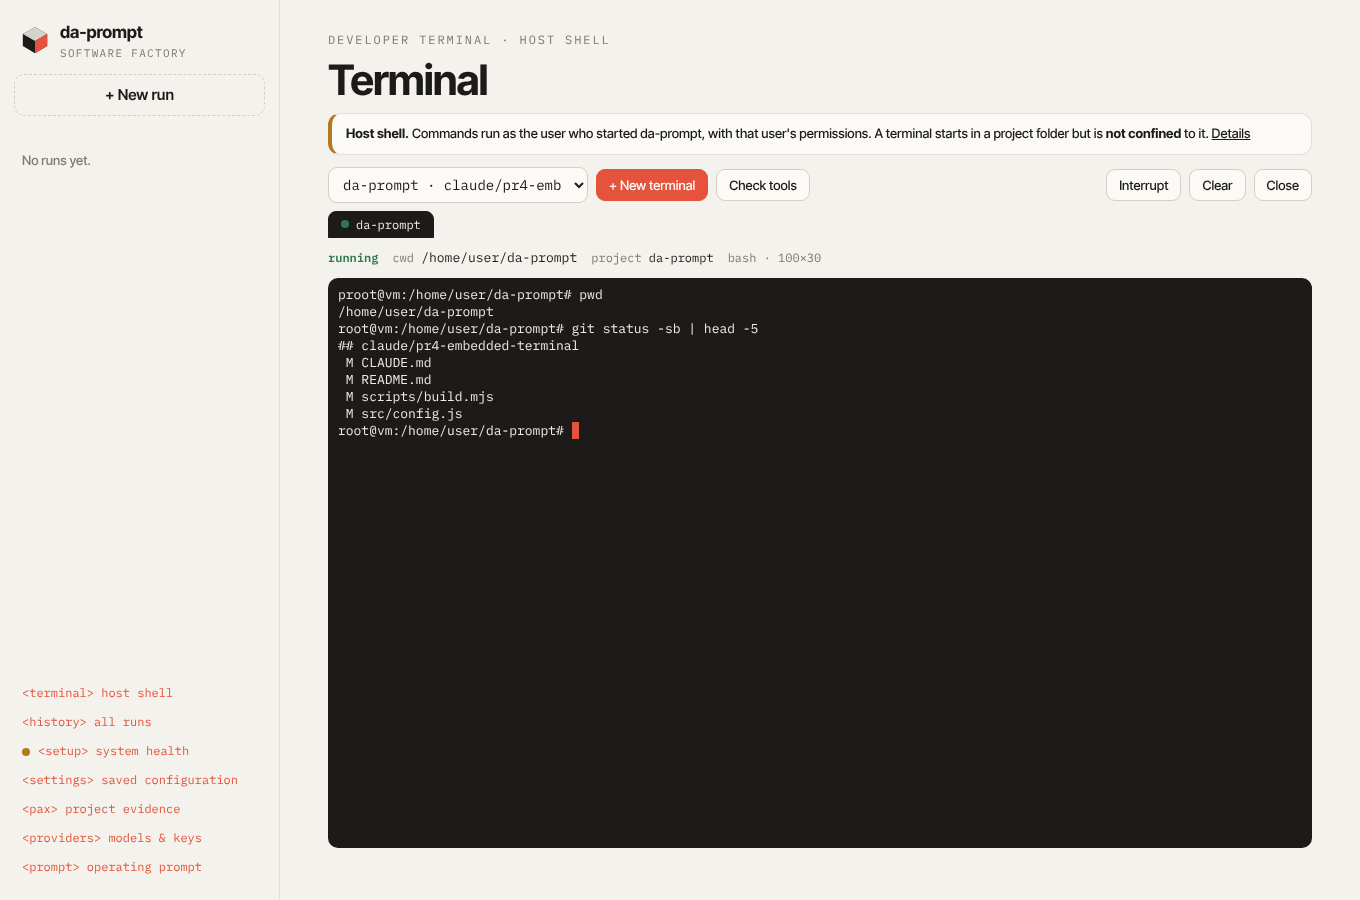
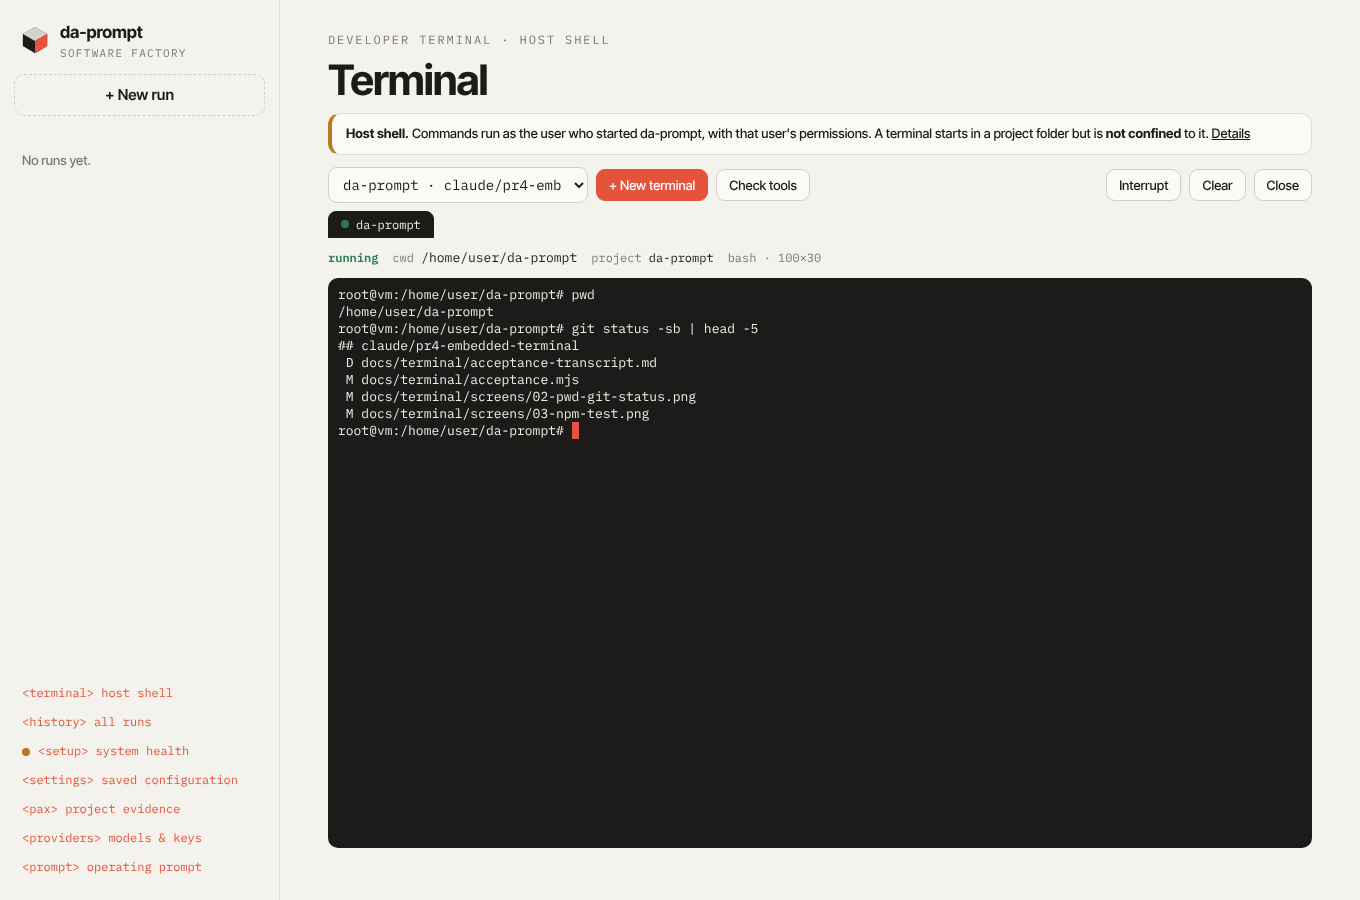
Terminal acceptance record (11/11 steps), earlier attempts and screenshots

Changed region(s): [[0.2471, 0.3733, 0.4941, 0.4667], [0.2471, 0.3111, 0.4324, 0.3422]]

diff --git a/docs/terminal/acceptance-transcript-attempt-2.md b/docs/terminal/acceptance-transcript-attempt-2.md
@@ -1,0 +1,40 @@
+# Terminal acceptance run
+
+- date: 2026-10-13T06:00:02.552Z
+- host: linux/x64, node v22.22.0, shell `/bin/bash`
+- repository under test: `/home/user/da-prompt` (project root authorized: `/home/user`)
+
+### 1. Open the Terminal panel
+**PASS** — sidebar link → #/terminal; the host-shell warning and project picker are shown
+
+### 2. Select the da-prompt repository and open a terminal in it
+**PASS** — header shows project "da-prompt" and cwd /home/user/da-prompt
+
+### 3. Run `pwd` and `git status`
+**PASS** — pwd printed the repository path; git status -sb printed the branch line
+
+### 4. Run the repository's actual test command (`npm test`, the full suite)
+**FAIL** — npm test exited 1: tests 219, pass 218, fail 1, cancelled 0, skipped 0
+
+### 5. Inspect a Git diff
+**PASS** — diff --stat and a file diff were rendered in the terminal
+
+### 6. Run a real development command with an installed local tool (cargo, node, pax)
+**PASS** — cargo, node and `node scripts/build.mjs` ran from the login shell; the real `pax` binary is on the terminal's PATH and answered --version
+
+### 7. Interrupt a running process (Ctrl-C from the keyboard, then the Interrupt button)
+**PASS** — `sleep 300` stopped by Ctrl-C (exit 130); `yes` stopped by the Interrupt button (exit 130)
+
+### 8. Refresh the browser and reconnect to a running session
+**PASS** — same session id, same shell pid 25361; the loop kept counting while the page was gone and continued after reattach
+
+### 9. Close the session and verify its processes are cleaned up
+**PASS** — pids 10050, 10053, 25361 were running before Close and are gone after; `ps` shows no `sleep 901/902`; the session list is empty
+
+### 10. Stop the AI provider; the terminal still works
+**PASS** — provider status went ready → unreachable; a new terminal opened and ran git/ls normally
+
+### 11. Check tools (login-shell PATH diagnostics)
+**PASS** — table rendered (2 tool rows)
+
+**10/11 steps passed**

diff --git a/docs/terminal/acceptance-transcript-attempt-3.md b/docs/terminal/acceptance-transcript-attempt-3.md
@@ -1,0 +1,40 @@
+# Terminal acceptance run
+
+- date: 2026-10-13T06:22:00.804Z
+- host: linux/x64, node v22.22.0, shell `/bin/bash`
+- repository under test: `/home/user/da-prompt` (project root authorized: `/home/user`)
+
+### 1. Open the Terminal panel
+**PASS** — sidebar link → #/terminal; the host-shell warning and project picker are shown
+
+### 2. Select the da-prompt repository and open a terminal in it
+**PASS** — header shows project "da-prompt" and cwd /home/user/da-prompt
+
+### 3. Run `pwd` and `git status`
+**PASS** — pwd printed the repository path; git status -sb printed the branch line
+
+### 4. Run the repository's actual test command (`npm test`, the full suite)
+**PASS** — exit 0 after 437s (tests 219, pass 219, fail 0, cancelled 0, skipped 0)
+
+### 5. Inspect a Git diff
+**PASS** — diff --stat and a file diff were rendered in the terminal
+
+### 6. Run a real development command with an installed local tool (cargo, node, pax)
+**PASS** — cargo, node and `node scripts/build.mjs` ran from the login shell; the real `pax` binary is on the terminal's PATH and answered --version
+
+### 7. Interrupt a running process (Ctrl-C from the keyboard, then the Interrupt button)
+**FAIL** — timeout
+
+### 8. Refresh the browser and reconnect to a running session
+**PASS** — same session id, same shell pid 28460; the loop kept counting while the page was gone and continued after reattach
+
+### 9. Close the session and verify its processes are cleaned up
+**PASS** — pids 13086, 13088, 28460 were running before Close and are gone after; `ps` shows no `sleep 901/902`; the session list is empty
+
+### 10. Stop the AI provider; the terminal still works
+**PASS** — provider status went ready → unreachable; a new terminal opened and ran git/ls normally
+
+### 11. Check tools (login-shell PATH diagnostics)
+**PASS** — table rendered (2 tool rows)
+
+**10/11 steps passed**

diff --git a/docs/terminal/README.md b/docs/terminal/README.md
@@ -1,0 +1,17 @@
+# Embedded terminal: manual acceptance record
+
+`acceptance.mjs` drives the real Terminal page (real Chromium, real keyboard events) against a real backend with the real
+da-prompt repository as the project, and writes a PASS/FAIL line per step plus screenshots (`screens/`). A step only passes
+if its observable outcome was checked (the output text, exit codes, process liveness via the OS, session lists from the API).
+
+```bash
+NODE_PATH=$(npm root -g) node docs/terminal/acceptance.mjs <parent-of-the-repo> [dir-containing-a-real-pax]   # ~10 minutes: step 4 runs the whole suite
+```
+
+* [`acceptance-transcript.md`](acceptance-transcript.md) — the final run: **11/11 steps passed** (Linux, Node 22, bash).
+* Earlier runs, kept because they found real problems (none of them in the terminal itself):
+  * [attempt 1](acceptance-transcript-attempt-1.md): `npm test` run *inside the terminal* failed 4 tests because a real `pax` was on PATH (two health tests and two UI tests assume "pax is not installed"). The suite was not hermetic for developers who have PAX installed — exactly this user. Fixed in `test/setup-env.cjs` (hides any `pax` from PATH, keeps it for the opt-in smoke test) + `test/hermetic.test.js`.
+  * [attempt 2](acceptance-transcript-attempt-2.md): 1 failure in `ops-ui` — a race in an existing UI test (the PAX form is disabled while the backend still counts a finished run as executing). The test now waits for the form.
+  * [attempt 3](acceptance-transcript-attempt-3.md): `npm test` passed (219/219); step 7 timed out once without a diagnostic. Cause not established; the script now waits until the process it is about to interrupt actually exists and prints the last screen lines on failure. The next run passed.
+
+Not run here: macOS (see the README's "Embedded terminal → Limitations").

diff --git a/docs/terminal/acceptance-transcript.md b/docs/terminal/acceptance-transcript.md
@@ -1,6 +1,6 @@
 # Terminal acceptance run
 
-- date: 2026-10-13T06:00:02.552Z
+- date: 2026-10-13T06:30:18.122Z
 - host: linux/x64, node v22.22.0, shell `/bin/bash`
 - repository under test: `/home/user/da-prompt` (project root authorized: `/home/user`)
 
@@ -14,7 +14,7 @@
 **PASS** — pwd printed the repository path; git status -sb printed the branch line
 
 ### 4. Run the repository's actual test command (`npm test`, the full suite)
-**FAIL** — npm test exited 1: tests 219, pass 218, fail 1, cancelled 0, skipped 0
+**PASS** — exit 0 after 400s (tests 219, pass 219, fail 0, cancelled 0, skipped 0)
 
 ### 5. Inspect a Git diff
 **PASS** — diff --stat and a file diff were rendered in the terminal
@@ -26,10 +26,10 @@
 **PASS** — `sleep 300` stopped by Ctrl-C (exit 130); `yes` stopped by the Interrupt button (exit 130)
 
 ### 8. Refresh the browser and reconnect to a running session
-**PASS** — same session id, same shell pid 25361; the loop kept counting while the page was gone and continued after reattach
+**PASS** — same session id, same shell pid 13293; the loop kept counting while the page was gone and continued after reattach
 
 ### 9. Close the session and verify its processes are cleaned up
-**PASS** — pids 10050, 10053, 25361 were running before Close and are gone after; `ps` shows no `sleep 901/902`; the session list is empty
+**PASS** — pids 30297, 30300, 13293 were running before Close and are gone after; `ps` shows no `sleep 901/902`; the session list is empty
 
 ### 10. Stop the AI provider; the terminal still works
 **PASS** — provider status went ready → unreachable; a new terminal opened and ran git/ls normally
@@ -37,4 +37,4 @@
 ### 11. Check tools (login-shell PATH diagnostics)
 **PASS** — table rendered (2 tool rows)
 
-**10/11 steps passed**
+**11/11 steps passed**
